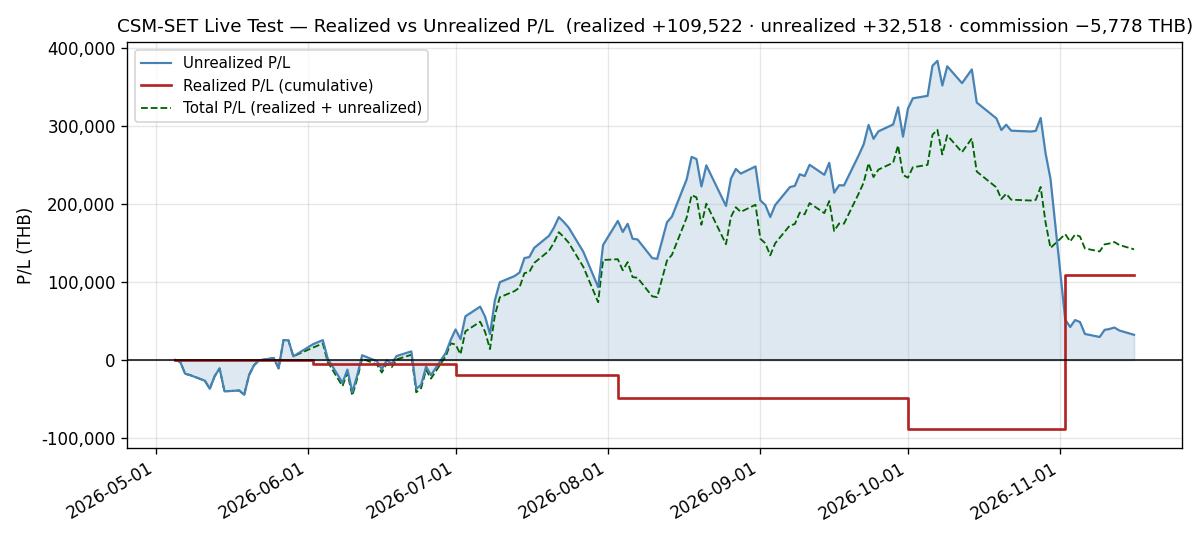
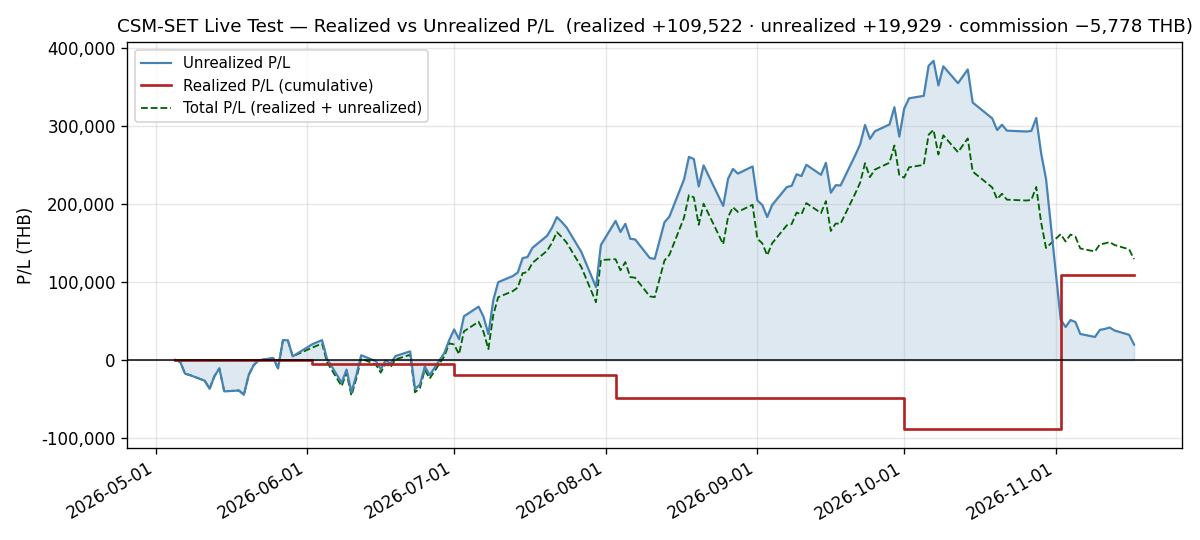
docs(live-test): add daily log for 2026-11-17
Scored session 12 of 41: NAV 1,247,840.32, -12,589.00 (-0.9988%) on the session and -1.1345% on NAV0, the lowest close since 2026-08-13; all ten names fell, SSP -10.78% (its largest fall in the panel) and INSET -9.71%. Breaker stays TRIPPED, rolling drawdown -11.7188%, the deepest in the published series; max drawdown in the window -2.5005%. Regime BEAR, SET -1.6572%. First scheduled refresh on image 239921e2a7bd clean (211/0). Holiday polls counted under one rule for runs whose log was lost: 71 of 623 banked. pnl.csv extended to 2026-11-17; only the P/L chart regenerated.

Claude-Session: https://claude.ai/code/session_01VKyqnmKmz6Hh9ErHRFMhFr

diff --git a/docs/live-test/daily/2026-11-17.md b/docs/live-test/daily/2026-11-17.md
@@ -1,0 +1,287 @@
+# Daily Log — 2026-11-17 (Tuesday)
+
+**As of:** 2026-11-17, Asia/Bangkok
+**Phase:** D — Final Evaluation & Documentation
+**Day:** 134 / 29 trading days remaining in 2026
+**Status:** 🟢 **SCORED — session 12 of 41 in the registered window** (`reports/2026-10-27-forward-scoring-pre-registration.md`). **NAV closes at 1,247,840.32 THB, −12,589.00 (−0.9988%) on the session and −1.1345% on NAV₀ = 1,262,159.89**, its lowest close since 2026-08-13. **All ten names fell**, for the first time since 2026-10-08 in these logs; INSET fell −9.71% and SSP −10.78%, its largest one-session fall in the panel. 🔴 **The circuit breaker stays TRIPPED**, its rolling drawdown deepening to **−11.7188%**, the deepest in the published NAV series. 🔴 **The regime stays BEAR**; the SET fell −1.6572%, its largest fall since 2026-11-06. 🟢 **The first scheduled refresh on image `239921e2a7bd`**, the second dependency update, deployed on 2026-11-16, **ran clean** (211 / 0), and no bound fired. ⚠ **71 of 623 holiday polls banked** since the settfex 0.26.3 upgrade, counted under one rule from this log on (Risk Note 7). Total Return on NAV is **+11.41%**.
+
+---
+
+## Execution Summary
+
+**No trades today.** The book is the one recorded from the 2026-11-02 rotation (`configs/live_portfolio.yaml` at `2f846b0`), unchanged since. Realized P/L for the session is **0.00 THB** and no commission was paid. **The breaker's safe mode acts only at a month-end evaluation**, so equity at 17.6035% of NAV creates no trade. The next evaluation is **2026-11-30** (registration §3).
+
+---
+
+## Portfolio Snapshot
+
+> 🟢 **Every figure in this section is SCORED-WINDOW data, session 12.** It is `configs/live_portfolio.yaml` at `2f846b0` repriced against the 2026-11-17 bar of `data/processed/prices_latest.parquet`, and it **equals** the `db_gateway.daily_performance` row the 18:00 refresh wrote.
+
+`Avg Cost` is the commission-inclusive per-share basis carried from `configs/live_portfolio.yaml` (4-decimal precision); `Cost Basis = shares × Avg Cost`, and `U.PL % = MV / Cost Basis − 1`.
+
+| # | Symbol | Shares | Avg Cost | Last Price | Market Value (THB) | Cost Basis (THB) | U.PL % |
+|---|--------|-------:|---------:|-----------:|--------------------:|-----------------:|-------:|
+| 1 | IRPC | 11,300 | 2.3037 | 2.32 | 26,216.00 | 26,031.81 | +0.71% |
+| 2 | HANA | 600 | 35.8070 | 43.50 | 26,100.00 | 21,484.20 | +21.48% |
+| 3 | GUNKUL | 6,100 | 2.9246 | 4.58 | 27,938.00 | 17,840.06 | +56.60% |
+| 4 | INSET | 8,400 | 3.0848 | 3.72 | 31,248.00 | 25,912.32 | +20.59% |
+| 5 | KCE | 500 | 39.0655 | 53.25 | 26,625.00 | 19,532.75 | +36.31% |
+| 6 | EPG | 3,400 | 5.9099 | 5.32 | 18,088.00 | 20,093.66 | −9.98% |
+| 7 | SMT | 4,000 | 5.8097 | 5.72 | 22,880.00 | 23,238.80 | −1.54% |
+| 8 | CNT | 3,600 | 3.3456 | 3.04 | 10,944.00 | 12,044.16 | −9.13% |
+| 9 | SPRC | 1,200 | 13.8232 | 12.55 | 15,060.00 | 16,587.84 | −9.21% |
+| 10 | SSP | 2,200 | 7.7129 | 6.62 | 14,564.00 | 16,968.38 | −14.17% |
+
+### Portfolio summary
+
+| Metric | Value |
+|--------|-------|
+| Total Cost Basis | 199,733.98 THB |
+| Total Market Value | 219,663.00 THB |
+| Unrealized P/L | +19,929.02 THB (+9.98%) |
+| Realized P/L (today) | 0.00 THB |
+| Realized P/L (cumulative, since inception) | **+109,521.83 THB** |
+| Commission paid (cumulative) | **−5,777.54 THB** |
+
+### Account summary
+
+| Metric | Value |
+|--------|-------|
+| Remaining Cash | 1,028,177.32 THB |
+| Total NAV | 1,247,840.32 THB |
+| Total Return on NAV | +11.41% |
+
+> **Cost-basis note:** Total Cost Basis is **199,733.98 THB**, equal to Σ per-symbol `shares × avg_cost` with a **0.00** delta, unchanged since the rotation.
+>
+> **Above/below cost: 5 up / 5 down.** **SMT** (−1.54%) moved below cost; **SSP** (−14.17%), **EPG** (−9.98%), **SPRC** (−9.21%) and **CNT** (−9.13%) were already below.
+>
+> **Equity is 17.6035% of NAV** (219,663.00 of 1,247,840.32), down from 18.4264%. The breaker acts only at the month-end evaluation.
+>
+> **Total P/L check:** realized + unrealized = 109,521.83 + 19,929.02 = **+129,450.85 THB**, down from +142,039.85 by **12,589.00**, exactly the session's NAV change.
+
+---
+
+## Day-over-Day Change (vs Monday November 16)
+
+| Symbol | Nov 16 Close | Nov 17 Close | Change | Change % | MV Contribution (THB) |
+|--------|-------------:|-------------:|-------:|---------:|----------------------:|
+| CNT | 3.06 | 3.04 | -0.02 | -0.65% | -72.00 |
+| EPG | 5.38 | 5.32 | -0.06 | -1.12% | -204.00 |
+| HANA | 44.60 | 43.50 | -1.10 | -2.47% | -660.00 |
+| IRPC | 2.42 | 2.32 | -0.10 | -4.13% | -1,130.00 |
+| SMT | 5.98 | 5.72 | -0.26 | -4.35% | -1,040.00 |
+| SPRC | 13.20 | 12.55 | -0.65 | -4.92% | -780.00 |
+| GUNKUL | 4.86 | 4.58 | -0.28 | -5.76% | -1,708.00 |
+| KCE | 57.00 | 53.25 | -3.75 | -6.58% | -1,875.00 |
+| INSET | 4.12 | 3.72 | -0.40 | -9.71% | -3,360.00 |
+| SSP | 7.42 | 6.62 | -0.80 | -10.78% | -1,760.00 |
+| **Total** | | | | **-5.42%** | **-12,589.00** |
+
+**Breadth: 0 up, 10 down, 0 flat.**
+
+> The `Change %` on the Total row is the **market-value** change (−12,589.00 / 232,252.00 = −5.4204%), not the NAV change (−12,589.00 / 1,260,429.32 = −0.9988%). They differ by the cash in the NAV denominator, 81.57% of the prior session's NAV in safe mode.
+
+**Every name fell, four of them by more than 5%.**
+
+- **All ten names fell**, for the first time since 2026-10-08 in these logs. The four largest losses, INSET, KCE, SSP and GUNKUL, took −8,703.00, 69.13% of the session's −12,589.00.
+- **INSET −9.71% (−3,360.00)** is its largest fall since 2025-04-09, and it closed at its lowest since 2026-06-30.
+- **SSP −10.78% (−1,760.00)** is its largest one-session fall in the panel. It closed at its lowest since 2026-09-10, and its U.PL fell to −14.17%.
+- **KCE −6.58% (−1,875.00)** is its largest fall since 2026-11-06, and it closed at its lowest since 2026-08-18. **GUNKUL −5.76% (−1,708.00)** is its largest fall since 2026-03-02.
+- **IRPC −4.13% (−1,130.00)** closed at its lowest since 2026-08-10, its U.PL down to +0.71%. **SPRC −4.92% (−780.00)** closed at its lowest since 2026-08-27.
+- **SMT −4.35% (−1,040.00)** closed at its lowest since 2026-09-18 and is now below cost.
+- **The book's −12,589.00 is its largest one-session fall since 2026-11-06**, and NAV is at its lowest since 2026-08-13.
+- **The book fell −0.9988% and the SET −1.6572%**, a **+0.6584pp** difference. It is a same-session arithmetic result for a book that is 82.40% cash, not a performance comparison (Market Context).
+
+---
+
+## Market Context
+
+| Indicator | Value | Source |
+|-----------|-------|--------|
+| SET Index | 1,474.68 | tvkit (TradingView) |
+| SET Open / High / Low | 1,486.76 / 1,491.19 / 1,472.07 | tvkit |
+| SET 200-day SMA | 1,526.5920 | tvkit (TradingView) |
+| Regime Estimate | BEAR | SET −3.40% below SMA200 |
+
+> ⚠ **This is context, NOT a benchmark comparison, and it must not be read as one.**
+>
+> - **Different price bases.** `SET:SET` is a **price index**; the strategy series above is priced on **dividend-adjusted** bars (since `e04a292`, 2026-08-09). The difference is one-sided in the strategy's favour, and it is not small: measured 2026-09-11 over 2024-03-19 → 2026-09-10, the dividend adjustment is worth **+12.09 percentage points** on this universe, roughly **+4.8%/yr**.
+> - **No alpha, excess return or outperformance figure is computed anywhere in this log.** The registration's tracking error against this index is reported in Risk Note 1 as a risk metric (§5).
+
+---
+
+## Regime State
+
+- **Detected regime:** 🔴 **BEAR**, the twelfth session. SET (1,474.68) is **below** SMA200 (1,526.5920) by −3.4005%.
+- **SMA200 position:** 1,526.5920, with the SET closing 51.91 points under it.
+- **3-month return:** −8.65% (window-sensitive — see Notes).
+- **The engine's own `RegimeDetector.detect()` also returns BEAR**: price below SMA200, and a 63-session return of **−9.06%** against its −5% threshold.
+- **No regime-driven action under the registration.** The regime filter is not one of the registered rules (§4). The SET closed −5.03% below its own EMA100 and −2.50% below its EMA200; both are reported and not applied.
+
+**The last six closes read 1,496.31 → 1,502.11 → 1,499.06 → 1,504.88 → 1,499.53 → 1,474.68.**
+
+- **Today:** a **−24.85 point, −1.6572%** session, the second fall in a row. The index is **−9.0764%** below the 2026-09-08 high.
+- **The SET's largest fall since 2026-11-06, and its lowest close since 2026-11-09**, on bars fetched back to 2020-09-08.
+- **Range:** **19.12 points**, against 9.14 the prior session. The index opened at 1,486.76, reached 1,491.19, and closed 2.61 above its low.
+- **Cushion fell −1.7153% → −3.4005%, a −1.6852pp step**, to its lowest since 2026-11-06. SMA200 rose to **1,526.5920** (+0.8915).
+- **A BEAR→BULL crossing needs the index 51.91 points higher**, +3.52% at today's SMA200.
+
+The 3-month figure moved from −7.01% to −8.65%, its start bar moving from 2026-08-11 (1,612.62) to 2026-08-13 (1,614.36).
+
+---
+
+## Sector Concentration
+
+Groupings are SET-official, as on 2026-11-02. The book is held at about 20% equity by the breaker's safe mode.
+
+| Sector | Market Value (THB) | % of NAV | % of stocks held | Limit (NAV) | Status |
+|--------|--------------------:|---------:|-----------------:|-------------|--------|
+| Energy & Utilities (ENERG) | 83,778 | 6.7138% | 38.1393% | 35% | OK on NAV |
+| Electronic Components (ETRON) | 75,605 | 6.0589% | 34.4186% | 35% | OK on NAV |
+| ICT | 31,248 | 2.5042% | 14.2254% | 35% | OK |
+| Construction Materials (CONMAT) | 18,088 | 1.4495% | 8.2344% | 35% | OK |
+| Construction Services (CONS) | 10,944 | 0.8770% | 4.9822% | — | below the 5% floor by ruling I5 |
+
+- **ENERG still leads at 6.7138% of NAV**, after the largest fall (−0.3597pp) on GUNKUL, SSP, IRPC and SPRC. ICT −0.2415pp on INSET, ETRON −0.2231pp to 6.0589% on KCE, SMT and HANA, CONMAT −0.0018pp on EPG.
+- **CONS rose +0.0030pp**: CNT fell less than the NAV did.
+- **The 35% cap is measured on NAV** (I2), and no sector is near it.
+- **As a share of the stocks held, ENERG is 38.14% and ETRON 34.42%.** The two hold 72.56% of the equity sleeve between them. This is recorded for context; it is not the registered measure.
+- **Every position is below the 5% floor**, between 0.8770% (CNT) and 2.5042% (INSET) of NAV. The breaker governs the band (I5), so **these are not deviations**.
+
+---
+
+## Risk Notes
+
+1. 🟢 **SCORED SESSION 12 OF 41.**
+
+   | Measure (registration §5) | Value |
+   |---|---|
+   | NAV₀ (2026-10-30 close) | 1,262,159.89 |
+   | NAV₁₁ (2026-11-16 close) | 1,260,429.32 |
+   | NAV₁₂ (2026-11-17 close) | 1,247,840.32 |
+   | r₁₂ = NAV₁₂ / NAV₁₁ − 1 | **−0.9988%** |
+   | Window return to date | **−1.1345%** |
+   | Max drawdown to date (running peak from NAV₀) | **−2.5005%** (2026-11-17, from the 2026-11-02 peak) |
+   | Annualized volatility (n = 12) | 12.00% |
+   | Sharpe, rf = 2% (n = 12) · rf = 0 | −2.11 · −1.94 |
+   | Tracking error vs `SET:SET` (n = 12) | 13.47% |
+
+   **Twelve returns carry almost no information**, and annualizing them magnifies that. **No criterion is graded before the window ends** (2026-12-30), and §9's power statement applies to every figure here.
+2. 🟢 **`daily_performance` equals this log.** The row reads **1,247,840.32, cash 1,028,177.32**, and `equity_curve` agrees.
+   - `daily_return` (−0.9988%) equals the day-over-day change to within 1×10⁻¹⁸.
+   - `cumulative_return` reads −2.5005% and `combined_drawdown` −2.5005%: both are measured from `entry_date` 2026-11-02. They are not the scored series (§5).
+3. 🔴 **CIRCUIT BREAKER — TRIPPED, threaded one session (I4).**
+   - **Procedure:** `DrawdownCircuitBreaker` with the recorded parameters (60 sessions, −10% trip, −5% recovery held 21 sessions), called with the state carried from 2026-11-16 (TRIPPED, recovery progress 0) on the published NAV series. It returns **TRIPPED**, rolling drawdown **−11.7188%**, equity fraction **0.20**, no transition.
+   - The drawdown deepened from −10.8282% on 2026-11-16, past the −11.0232% of 2026-11-09, so it is **the deepest in the published NAV series**. **Recovery needs it above −5%**, so the state does not move.
+   - The 2026-10-07 peak (1,413,483.89) is still the window's high.
+   - **Recovery** starts when the rolling drawdown rises above −5%, at NAV **1,342,809.70**. That is **94,969.38 (+7.6107%)** above today's NAV. From a book 17.60% in stocks, it needs the equity sleeve to rise about **43.23%**.
+   - **The 1,064,000 THB line** (5% below `starting_nav`) has NAV **+183,840.32** (14.73%) above it. Under the registration it is a reporting line and carries no action.
+4. 🔴 **REGIME — BEAR, the twelfth session** (Regime State). Under the registration it changes nothing. The transition is recorded in `events/2026-11-02-regime-transition-bull-to-bear.md`.
+5. 🟢 **EXECUTION — CLOSED** by the operator's ruling of 2026-11-04: the operator places every order by hand (registration §12; `events/2026-11-03-rotation-orders-placed-as-limit-orders.md`). Nothing changed since.
+6. 🟢 **REFRESH — the first scheduled firing on image `239921e2a7bd` ran clean.** It started at 11:00:00Z and completed at 11:02:06Z with receipt 211 / 0, in 124.48 s.
+   - **No bound fired.** The container log since the image started holds no "Failed to fetch symbol" line, no "timed out" line and no "daily_refresh exceeded" line, and every symbol came back on attempt 1. [[TK-0657]]
+7. ⚠ **HOLIDAY POLL — 71 of 623 polls banked since the settfex 0.26.3 upgrade (11.4%); 11 of 44 on the current image.**
+
+   | Window | Image | Poll runs | Banked | Failure lines |
+   |---|---|---:|---:|---|
+   | 2026-11-04T12:20:14Z → 2026-11-05T11:20:14Z | `db0cb596918c` | 47 | 7 | logged at DEBUG; 1 run after the saved log, not banked |
+   | 2026-11-05T11:26:33Z → 2026-11-13T11:56:33Z | `7e49ed4f6a87` | 386 | 37 | 348, all `FetchError status_code=401`; 1 run after the saved log, not banked |
+   | 2026-11-13T12:16:34Z → 2026-11-16T13:16:34Z | `5bf4e130cfd6` | 146 | 16 | 128, all `FetchError status_code=401`; 3 runs after the saved log, 1 banked and 2 not |
+   | 2026-11-16T13:22:10Z → 2026-11-17T10:52:10Z | `239921e2a7bd` | 44 | 11 | 33, all `FetchError status_code=401` |
+   | **Total** | | **623** | **71** | |
+
+   - **How banked polls are counted.** The observer's record covers the second image's first 99 runs (6 banked). After it ended on 2026-11-07T12:33:49Z, a run with no failure line counts as banked.
+   - **The rule for runs whose log was lost.** Each recreate removed the old container and its log, so the runs after the last saved copy have no log line. Each such run follows from the 30-minute interval. It is counted when the banked calendar file decides its outcome: the observer's record for the first image, and the file's `captured_at` for the later ones. **One run cannot be decided and is left out:** 2026-11-16T11:46:34Z, because the banked run at 12:16:34Z overwrote whatever it wrote.
+   - ↻ **This replaces two different treatments.** The 2026-11-16 log left out the first image's last run (about 2026-11-05T11:20:14Z) and counted the second image's (2026-11-13T11:56:33Z). Under one rule both count, so the 2026-11-16 figure of 59 of 574 becomes 59 of 575 on the same window.
+   - **Positive control:** the latest run before the 18:00 firing with no failure line, 10:52:10Z, matches the `captured_at` the firing read, 10:52:11Z, written by that run.
+   - **Exposure:** polls banked on every Bangkok date since the upgrade (2026-11-04: 2, 2026-11-05: 5, 2026-11-06: 4, 2026-11-07: 2, 2026-11-08: 7, 2026-11-09: 3, 2026-11-10: 3, 2026-11-11: 6, 2026-11-12: 6, 2026-11-13: 8, 2026-11-14: 3, 2026-11-15: 1, 2026-11-16: 11, 2026-11-17: 10 to the 18:00 firing). The longest gap between two banked polls is still **30 h 00 m** (2026-11-14 10:16Z → 2026-11-15 16:16Z).
+   - The update for `session:pm` was posted on #461 on 2026-11-16, on the operator's go. It has no reply yet.
+8. 🟢 **INFRA — a second dependency update was deployed on 2026-11-16, on the operator's go.**
+   - **The change:** a lock-only update (`8817b4f`); Security CI green on it, and on the log commit `d0b3a47` after it.
+   - **The deploy:**
+     - rollback tag `csm-set-csm:rollback-20261116` → `5bf4e130cfd6`;
+     - image `239921e2a7bd`, built with `--pull` and gated without a network; it differs from the old image by two packages;
+     - container `Created` 2026-11-16T13:21:26Z (20:21:26 BKK), after that day's 18:00 firing had completed, so no firing was missed.
+   - **Unchanged by the recreate:** ports, mounts, network, `init`, memory limit, command and environment. The environment was compared by key name and by hash of the values.
+   - **This session's refresh is the new image's first** (Risk Note 6).
+   - **Rollback images kept:** `rollback-20261116` → `5bf4e130cfd6`, `rollback-20261113` → `7e49ed4f6a87` and `rollback-20261105` → `db0cb596918c`.
+   - **The missing-receipt alert** (TK-0657, closed) runs on HOME (#464). This session's report landed at 18:02 BKK, before the 22:30 BKK due time.
+9. 🟢 **Bands, by ruling.** The 35% cap is measured on NAV, where ENERG leads at 6.7138% (I2). Every position is below the 5% floor (I5). [[TK-0279]]
+10. 🟢 **The uncredited dividend total holds at 8,927.00 THB**: KCE 1,560.00, INSET 2,100.00, MGC 2,208.00, FORTH 795.00, IRPC 2,264.00.
+    - That is **0.72% of NAV** and **6.90%** of the +129,450.85 total P/L.
+    - The registration reports dividends beside each score and does not credit them (§8).
+11. ⚠ **DOC — the `csm-set-daily-log` skill's `daily_return` guidance remains stale.** Its Step 3 still calls the field *"an open defect, not yet fixed in code"*; it was fixed 2026-09-02, and today's row shows it (Risk Note 2). **Forty-eighth log to carry this.**
+12. **Open decisions — answered for the scored window, by the registration's §8 and §12 and the 2026-10-31 rulings.**
+
+    | Decision | Registered for the window |
+    |---|---|
+    | EMA100 | per holding |
+    | Bands | bind at construction, on the names being traded; the breaker governs them in safe mode (I5) |
+    | Sector cap | measured on NAV, checked on the scaled book (I2) |
+    | Breaker state | advances every trading session (I4) |
+    | Price history | the published NAV, frozen at publication |
+    | Dividends | not credited, reported beside each score |
+    | Fill rule | the operator places every order by hand (amendment of 2026-11-04, registration §12) |
+
+---
+
+## Notes
+
+- **Scheduled refresh completed via APScheduler with zero failures.**
+  - `"Scheduled daily_refresh completed"` at **2026-11-17T11:02:06Z** (18:02 BKK).
+  - It was the 18:00 cron firing (`cron[... day_of_week='mon-fri', hour='18', minute='0']`, started 11:00:00Z).
+  - Receipt: `symbols_fetched=211, failures=0, duration_seconds=124.48, held_symbols_fetched=10, held_symbols_failed=0, retry_attempts_used=0, index_fetched=true`, corroborated by `results/.tmp/last_refresh.json`.
+  - The held phase ended `requested=10 recovered=10 still_failing=0` at 11:00:07Z, and the universe phase `requested=201 recovered=201 still_failing=0` at 11:01:48Z. The gateway accepted the daily report (`201`) at 11:02:06Z.
+  - The firing's own log line gives the next run as 2026-11-18 18:00 +07.
+- **No manual trigger, checked on the access log's fields.**
+  - Every access record since the container started was parsed, and its `method` and `path` fields were tested for a `POST` to a path under `/api/v1/scheduler/run`. There were 2,655 access records, all `GET /health`, and no `POST` of any kind.
+  - **Positive control:** the same parse finds a synthetic access record with method `POST` and path `/api/v1/scheduler/run/daily_refresh` appended to a copy of the log.
+- **The log holds no ERROR since the container started.** Of 4,125 JSON records, 4,124 are INFO and one is WARNING: the startup notice that `CSM_API_KEY` is unset (2026-11-16T13:21:39Z).
+- **The container runs image `239921e2a7bd`**, its first scheduled refresh.
+  - `Created` 2026-11-16T13:21:26Z, `StartedAt` 13:21:28Z, `RestartCount` 0. `FinishedAt` is unset (0001-01-01) because this container has never stopped.
+  - The host has not rebooted since 2026-10-06 (`uptime -s` 2026-10-06 10:46:02).
+- **`SET:THCOM` was fetched with 600 bars again.**
+- **The price panel and the prior log agree on all ten names**, so **nothing was restated**.
+- **The panel's row count fell 897 → 896.** Every row still carries a 09:55 Bangkok stamp, the column count is unchanged at **211**, and no session date is duplicated.
+- **Row-integrity checks pass.** `db_csm_set.equity_curve` holds **exactly one row per trading day at `00:00:00+00`** (133 rows, 133 dates, none off midnight), and today's row equals `daily_performance.total_value`.
+- **`configs/live_portfolio.yaml` is unchanged** since `2f846b0`.
+- **The P/L identity holds.** `realized_cum + unrealized − (NAV − starting_nav)` = 109,521.83 + 19,929.02 − 127,840.32 = **1,610.53 THB**, unchanged.
+- **Every figure was verified rather than asserted.**
+  - Σ position market value equals Total Market Value exactly (219,663.00).
+  - **Total NAV (1,247,840.32) equals `db_gateway.daily_performance.total_value` to the satang**, and cash equals the YAML's 1,028,177.32.
+  - The contributions sum to the session's NAV change (−12,589.00) exactly.
+  - The sector table sums to Total Market Value exactly.
+  - Σ per-symbol cost basis matches Total Cost Basis with a **0.00** delta, and the position count is 10.
+  - All money arithmetic used `Decimal` with explicit half-up rounding, and so did SMA200.
+- **Realized P/L and commission ledger, unchanged.**
+  - Realized cumulative **+109,521.83 THB**: 2026-06-02 −4,351.87 · 2026-07-01 −14,964.06 · 2026-08-03 −29,775.45 · 2026-10-01 −39,365.29 · 2026-11-02 +197,978.50.
+  - Commission cumulative **−5,777.54 THB**: 05-05 1,611.15 · 06-02 984.44 · 06-04/05 169.09 · 07-01 287.83 · 08-03 682.65 · 10-01 201.81 · 11-02 1,840.57.
+- **Capital events to date, unchanged.** `starting_nav` 1,120,000 after 1,000,000 → 1,100,000 (2026-06-04, +100,000) → 1,120,000 (2026-08-03, +20,000).
+- **Every superlative was computed, and each names its window.**
+
+  | Claim | Window | Source |
+  |---|---|---|
+  | Each name's largest fall and lowest close quoted above, including SSP's largest fall in the panel | the whole panel, which starts 2024-05-29 for these names | the panel |
+  | The book's largest fall since 2026-11-06, and NAV's lowest since 2026-08-13 | the published NAV series, from 2026-05-04 | `daily_performance` |
+  | All ten names down, for the first time since 2026-10-08 | the breadth line of every daily log | the daily logs |
+  | The SET's largest fall since 2026-11-06 and lowest close since 2026-11-09; the cushion's lowest since 2026-11-06 | bars fetched back to 2020-09-08 | tvkit |
+- **3-month return figure is window-sensitive.** −8.65% is measured over the trailing 66 bars from today's close (start bar 2026-08-13, 1,614.36). The engine's 63-session figure is −9.06%. The regime estimate uses the SMA200 only.
+- **Follow-ups for the next session (Wednesday 2026-11-18 18:00 +07).**
+
+  | | Item | Level |
+  |---|---|---|
+  | (a) | the breaker state, threaded once | TRIPPED; rolling drawdown −11.7188%; recovery above 1,342,809.70 |
+  | (b) | the regime | BEAR; 51.91 points to a BULL crossing |
+  | (c) | the holiday-poll rate and the longest gap | banked ÷ run under the one rule; 30 h 00 m |
+  | (d) | #461 | `session:pm`'s |
+  | (e) | the next monthly evaluation | 2026-11-30 |
+
+  **The five follow-ups from 2026-11-16 are closed above:**
+  - (a) Risk Note 3; (b) Risk Note 4; (c) Risk Note 7;
+  - (d) Risk Note 7: the update was posted on #461, with no reply;
+  - (e) the evaluation date is unchanged.
+- **Calendar.** 2026-11-17 was a trading session.
+  - The 18:00 firing read the banked SET holiday calendar (`results/.tmp/set_holidays.json`) at `captured_at 2026-11-17T10:52:11Z`.
+  - The banked calendar lists the remaining 2026 closures as **2026-12-07**, **2026-12-10** and **2026-12-31**. The next session is **2026-11-18**.
+  - No trading hours are stated anywhere in this log.
+- Data fetched via tvkit (TradingView, free tier): all 10 held-symbol prices from the 18:00 BKK scheduled-cron refresh; SET Index context anchored explicitly to the 2026-11-17 bar. ⚠ **The vendor back-adjusts a symbol's entire history on an ex-dividend date**, so any prior-session price quoted here is the vendor's *current* view of that session and not necessarily what was published at the time.

diff --git a/docs/live-test/graphs/README.md b/docs/live-test/graphs/README.md
@@ -1,9 +1,9 @@
 # Live-Test Charts — how these are generated
 
-_🟢 **The three NAV charts are on the October month-end, 2026-10-30; the P/L chart is newer, 2026-11-16.** The three **NAV** charts
+_🟢 **The three NAV charts are on the October month-end, 2026-10-30; the P/L chart is newer, 2026-11-17.** The three **NAV** charts
 (`equity_curve`, `drawdown`, `monthly_returns`) were regenerated on 2026-10-30 from `nav_actual.csv` /
 `nav_twr.csv` extended to **121 points** (2026-05-04 → 2026-10-30). `pnl_realized_unrealized.png` was
-regenerated on 2026-11-16 from `pnl.csv` (**132 rows**, through 2026-11-16; its newest realized step is the 2026-11-02 rotation's). ⚠ **The September rows of the two NAV CSVs
+regenerated on 2026-11-17 from `pnl.csv` (**133 rows**, through 2026-11-17; its newest realized step is the 2026-11-02 rotation's). ⚠ **The September rows of the two NAV CSVs
 come from `db_gateway.daily_performance`, not `equity_curve`** — IRPC's 2026-09-09 restatement rewrote the
 `equity_curve` rows it would otherwise have supplied; see the 2026-09-30 History entry. **The October rows
 are the published daily-log NAVs**, which equal `equity_curve` on every October session; `daily_performance`
@@ -262,14 +262,24 @@ restatement has rewritten `equity_curve` rows inside the month being appended, *
 | `monthly_returns.png` | May **+0.33%** · Jun **+1.44%** · Jul **+9.53%** · Aug **+5.68%** · Sep **+2.90%** · Oct **−6.90%** (no flow in September or October, so the TWR and actual-NAV figures agree for both) |
 | **August bar is the TWR figure** | **+5.68%**, NOT the reported +7.40% and NOT the ex-injection +5.77%. Feeding `nav_actual.csv` instead reproduces the documented failure mode — **Jun +11.62%** and Aug +7.40% |
 | June bar vs the June review | must read **+1.44%**, not +11.62% |
-| `pnl_realized_unrealized.png` *(the 2026-11-16 PNG, through 11-16)* | realized **+109,521.83** · unrealized **+32,518.02** · commission **−5,777.54** THB; the realized line is **flat except at 2026-06-02, 2026-07-01, 2026-08-03, 2026-10-01 and 2026-11-02** — **five** steps, the last one upward. *(The 2026-11-13 PNG read the same realized and commission with unrealized +38,044.02 at 131 points; the 2026-11-12 PNG read the same realized and commission with unrealized +41,863.02 at 130 points; the 2026-11-11 PNG read the same realized and commission with unrealized +40,003.02 at 129 points; the 2026-11-10 PNG read the same realized and commission with unrealized +38,865.02 at 128 points; the 2026-11-09 PNG read the same realized and commission with unrealized +29,761.02 at 127 points; the 2026-11-06 PNG read the same realized and commission with unrealized +33,639.02 at 126 points; the 2026-11-05 PNG read the same realized and commission with unrealized +48,895.02 at 125 points; the 2026-11-04 PNG read the same realized and commission with unrealized +51,445.02 at 124 points; the 2026-11-03 PNG read the same realized and commission with unrealized +42,526.02 at 123 points; the 2026-11-02 PNG read the same realized and commission with unrealized +51,932.02 at 122 points; the 2026-10-30 PNG read realized −88,456.67 · unrealized +232,227.03 · commission −3,936.97 at 121 points, with four steps; the 2026-10-29 PNG read the same realized and commission with unrealized +264,919.03 at 120 points; the 2026-10-28 PNG read the same realized and commission with unrealized +310,400.03 at 119 points; the 2026-10-27 PNG read the same realized and commission with unrealized +293,787.03 at 118 points; the 2026-10-26 PNG read the same realized and commission with unrealized +293,003.03 at 117 points; the 2026-10-22 PNG read the same realized and commission with unrealized +294,101.03 at 116 points; the 2026-10-21 PNG read the same realized and commission with unrealized +301,696.03 at 115 points; the 2026-10-20 PNG read the same realized and commission with unrealized +294,904.03 at 114 points; the 2026-10-19 PNG read the same realized and commission with unrealized +309,815.03 at 113 points; the 2026-10-15 PNG read the same realized and commission with unrealized +330,143.03 at 112 points; the 2026-10-14 PNG read the same realized and commission with unrealized +372,572.03 at 111 points; the 2026-10-12 PNG read the same realized and commission with unrealized +354,949.03 at 110 points; the 2026-10-09 PNG +376,567.03 at 109; the 2026-10-08 PNG +352,021.03 at 108; the 2026-10-07 PNG +383,551.03 at 107; the 2026-10-06 PNG +377,303.03 at 106; the 2026-10-05 PNG +338,709.03 at 105; the 2026-10-02 PNG +335,559.03 at 104; the 2026-10-01 PNG +322,278.03 at 103.)* *(The 2026-08-31 PNG read:* realized **−49,091.38** · unrealized **+248,232.35** · commission **−3,735.16** THB; the realized line is **flat except at 2026-06-02, 2026-07-01 and 2026-08-03** — **three** steps.) *(The superseded 2026-08-28 render showed −49,091.38 / +239,078.35 at 79 points; the 2026-08-27 one showed −49,091.38 / +245,069.35 at 78 points; the 2026-08-26 one showed −49,091.38 / +232,605.35 at 77 points; the 2026-08-25 one showed −49,091.38 / +197,671.35 at 76 points; the 2026-08-24 one showed −49,091.38 / +210,441.35 at 75 points; the 2026-08-21 one showed −49,091.38 / +249,619.35 at 74 points; the 2026-08-20 one showed −49,091.38 / +222,599.35 at 73 points; the 2026-08-19 one showed −49,091.38 / +257,693.35 at 72 points; the 2026-08-18 one showed −49,091.38 / +260,527.35 at 71 points; the 2026-08-17 one showed −49,091.38 / +231,713.35 at 70 points; the 2026-08-14 one −49,091.38 / +183,951.35 at 69 points; the 2026-08-12 one −49,091.38 / +129,844.35 at 67 points; the 2026-08-01 one −19,315.93 / +147,665.89 / −3,052.51 and only two steps.)* |
-| `pnl.csv` last row *(the CSV and the P/L PNG are in sync — see the header)* | 2026-11-16: realized **+109,521.83** · unrealized **+32,518.02** · total **+142,039.85** · commission **5,777.54** THB; **132 rows**, matching `equity_curve`'s 132 **in row count only** *(↻ this row read 2026-08-31 / 80 rows until 2026-10-02: the September daily runs extended the CSV without updating it; it is updated with each session's History entry since)* — the values diverge historically after the KCE, INSET, MGC *and* FORTH restatements (see the header caveat) |
+| `pnl_realized_unrealized.png` *(the 2026-11-17 PNG, through 11-17)* | realized **+109,521.83** · unrealized **+19,929.02** · commission **−5,777.54** THB; the realized line is **flat except at 2026-06-02, 2026-07-01, 2026-08-03, 2026-10-01 and 2026-11-02** — **five** steps, the last one upward. *(The 2026-11-16 PNG read the same realized and commission with unrealized +32,518.02 at 132 points; the 2026-11-13 PNG read the same realized and commission with unrealized +38,044.02 at 131 points; the 2026-11-12 PNG read the same realized and commission with unrealized +41,863.02 at 130 points; the 2026-11-11 PNG read the same realized and commission with unrealized +40,003.02 at 129 points; the 2026-11-10 PNG read the same realized and commission with unrealized +38,865.02 at 128 points; the 2026-11-09 PNG read the same realized and commission with unrealized +29,761.02 at 127 points; the 2026-11-06 PNG read the same realized and commission with unrealized +33,639.02 at 126 points; the 2026-11-05 PNG read the same realized and commission with unrealized +48,895.02 at 125 points; the 2026-11-04 PNG read the same realized and commission with unrealized +51,445.02 at 124 points; the 2026-11-03 PNG read the same realized and commission with unrealized +42,526.02 at 123 points; the 2026-11-02 PNG read the same realized and commission with unrealized +51,932.02 at 122 points; the 2026-10-30 PNG read realized −88,456.67 · unrealized +232,227.03 · commission −3,936.97 at 121 points, with four steps; the 2026-10-29 PNG read the same realized and commission with unrealized +264,919.03 at 120 points; the 2026-10-28 PNG read the same realized and commission with unrealized +310,400.03 at 119 points; the 2026-10-27 PNG read the same realized and commission with unrealized +293,787.03 at 118 points; the 2026-10-26 PNG read the same realized and commission with unrealized +293,003.03 at 117 points; the 2026-10-22 PNG read the same realized and commission with unrealized +294,101.03 at 116 points; the 2026-10-21 PNG read the same realized and commission with unrealized +301,696.03 at 115 points; the 2026-10-20 PNG read the same realized and commission with unrealized +294,904.03 at 114 points; the 2026-10-19 PNG read the same realized and commission with unrealized +309,815.03 at 113 points; the 2026-10-15 PNG read the same realized and commission with unrealized +330,143.03 at 112 points; the 2026-10-14 PNG read the same realized and commission with unrealized +372,572.03 at 111 points; the 2026-10-12 PNG read the same realized and commission with unrealized +354,949.03 at 110 points; the 2026-10-09 PNG +376,567.03 at 109; the 2026-10-08 PNG +352,021.03 at 108; the 2026-10-07 PNG +383,551.03 at 107; the 2026-10-06 PNG +377,303.03 at 106; the 2026-10-05 PNG +338,709.03 at 105; the 2026-10-02 PNG +335,559.03 at 104; the 2026-10-01 PNG +322,278.03 at 103.)* *(The 2026-08-31 PNG read:* realized **−49,091.38** · unrealized **+248,232.35** · commission **−3,735.16** THB; the realized line is **flat except at 2026-06-02, 2026-07-01 and 2026-08-03** — **three** steps.) *(The superseded 2026-08-28 render showed −49,091.38 / +239,078.35 at 79 points; the 2026-08-27 one showed −49,091.38 / +245,069.35 at 78 points; the 2026-08-26 one showed −49,091.38 / +232,605.35 at 77 points; the 2026-08-25 one showed −49,091.38 / +197,671.35 at 76 points; the 2026-08-24 one showed −49,091.38 / +210,441.35 at 75 points; the 2026-08-21 one showed −49,091.38 / +249,619.35 at 74 points; the 2026-08-20 one showed −49,091.38 / +222,599.35 at 73 points; the 2026-08-19 one showed −49,091.38 / +257,693.35 at 72 points; the 2026-08-18 one showed −49,091.38 / +260,527.35 at 71 points; the 2026-08-17 one showed −49,091.38 / +231,713.35 at 70 points; the 2026-08-14 one −49,091.38 / +183,951.35 at 69 points; the 2026-08-12 one −49,091.38 / +129,844.35 at 67 points; the 2026-08-01 one −19,315.93 / +147,665.89 / −3,052.51 and only two steps.)* |
+| `pnl.csv` last row *(the CSV and the P/L PNG are in sync — see the header)* | 2026-11-17: realized **+109,521.83** · unrealized **+19,929.02** · total **+129,450.85** · commission **5,777.54** THB; **133 rows**, matching `equity_curve`'s 133 **in row count only** *(↻ this row read 2026-08-31 / 80 rows until 2026-10-02: the September daily runs extended the CSV without updating it; it is updated with each session's History entry since)* — the values diverge historically after the KCE, INSET, MGC *and* FORTH restatements (see the header caveat) |
 | The August regeneration *(**done** 2026-08-12, **superseded** by the 2026-08-14, 2026-08-17, 2026-08-18, 2026-08-19, 2026-08-20, 2026-08-21, 2026-08-24, 2026-08-25, 2026-08-26, 2026-08-27, 2026-08-28 and then the 2026-08-31 render)* | ✅ satisfied — the current PNG title reads `realized -49,091 · unrealized +248,232 · commission −3,735 THB`, the series ends 2026-08-31 at 80 points, and the realized line steps **three** times. Verified by eye against the rendered image, not only from the generator's stdout |
 | Only ONE PNG may change on a P/L regeneration | ✅ `gen_pnl_chart.py:118` writes `pnl_realized_unrealized.png` and nothing else. Checksum the four PNGs before and after: the three NAV charts must be **byte-identical** and keep their 2026-08-01 mtimes. Verified 2026-08-14, 2026-08-17, 2026-08-18, 2026-08-19, 2026-08-20, 2026-08-21, 2026-08-24, 2026-08-25, 2026-08-26, 2026-08-27, 2026-08-28 and 2026-08-31 — only the P/L PNG's hash moved on all twelve |
 | P/L reconciliation | `realized_cum + unrealized − (NAV − capital)` = **1,610.53** from 2026-11-02 (**1,610.47** for 2026-10-01 → 2026-10-30, **1,610.27** for 2026-08-03 → 2026-09-30, **1,609.61** for 2026-07-01 → 2026-07-31; every era since 2026-05-05 is listed in §Reconciliation residual, corrected 2026-10-31), and constant *within* each era; the 2026-11-02 step is **+0.06** (SPRC +0.02, SSP −0.08 against their all-in costs) and the 2026-10-01 step **+0.20**, CNT's: 4-dp `avg_cost` rounding both times. A *drifting* residual means a realisation was missed; the one-time **+0.66** step at the rotation is 4-dp `avg_cost` rounding — see above |
 | `commission_cum` | rises **only on the 8 fill dates** (05-05, 06-02, 06-04, 06-05, 07-01, 08-03, 10-01, **11-02**); a rise on any other day means a non-trading day was credited with a fill |
 
 ## History
+
+**`pnl.csv` extended through 2026-11-17** on 2026-11-17, appending the **2026-11-17** row — scored session 12,
+a no-trade session. `realized_cum` (+109,521.83) and `commission_cum` (5,777.54) are unchanged, so the realized
+line takes no step. Unrealized falls +32,518.02 → **+19,929.02** and `total_pl` +142,039.85 → **+129,450.85**
+(−12,589.00, exactly the session's NAV change); `total_pl` is at its lowest since 2026-08-13 in this CSV.
+The reconciliation residual holds at **1,610.53**.
+**`pnl_realized_unrealized.png` was regenerated in the same session**, so the two artifacts end together at
+**133 points**; the four PNGs were checksummed (md5) before and after, and the three NAV charts are
+byte-identical (`drawdown` 7df00897…, `equity_curve` 5ab54261…, `monthly_returns` 89088737…), with only the
+P/L chart's hash moving (3123dc17… → **752845a8…**). Checked against the rendered image.
 
 **`pnl.csv` extended through 2026-11-16** on 2026-11-16, appending the **2026-11-16** row — scored session 11,
 a no-trade session. `realized_cum` (+109,521.83) and `commission_cum` (5,777.54) are unchanged, so the realized
